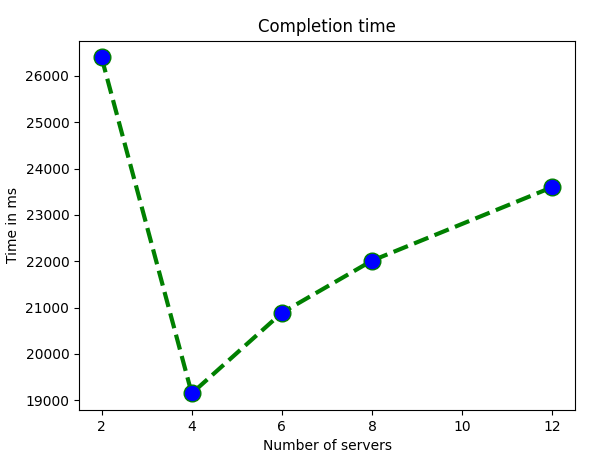
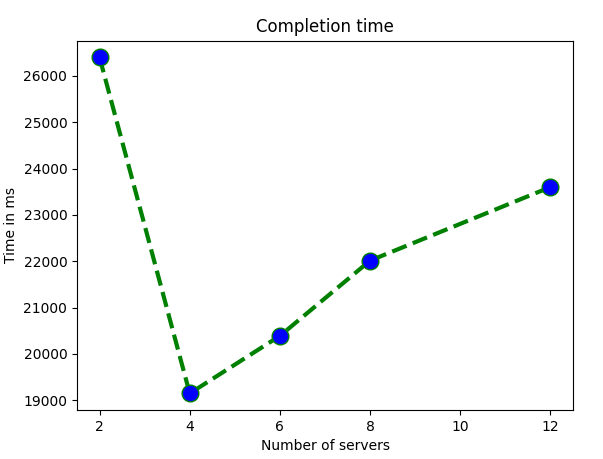
save

diff --git a/README.md b/README.md
@@ -68,7 +68,7 @@ The following results (averages of 5 runs) obtained:
 
 - 2 servers : 26401ms
 - 4 servers : 19146ms
-- 6 servers : 20888ms
+- 6 servers : 20388ms
 - 8 servers : 22013ms
 - 12 servers : 23601ms
 
